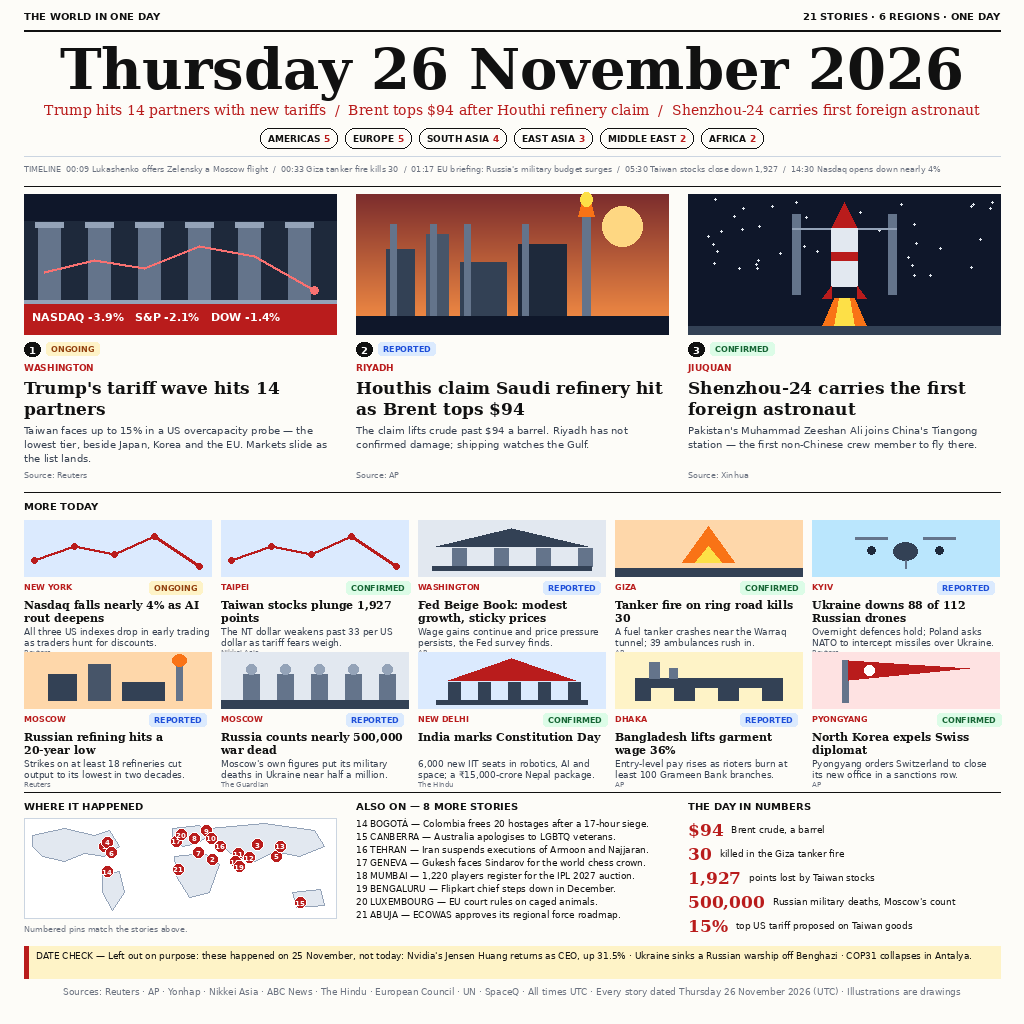
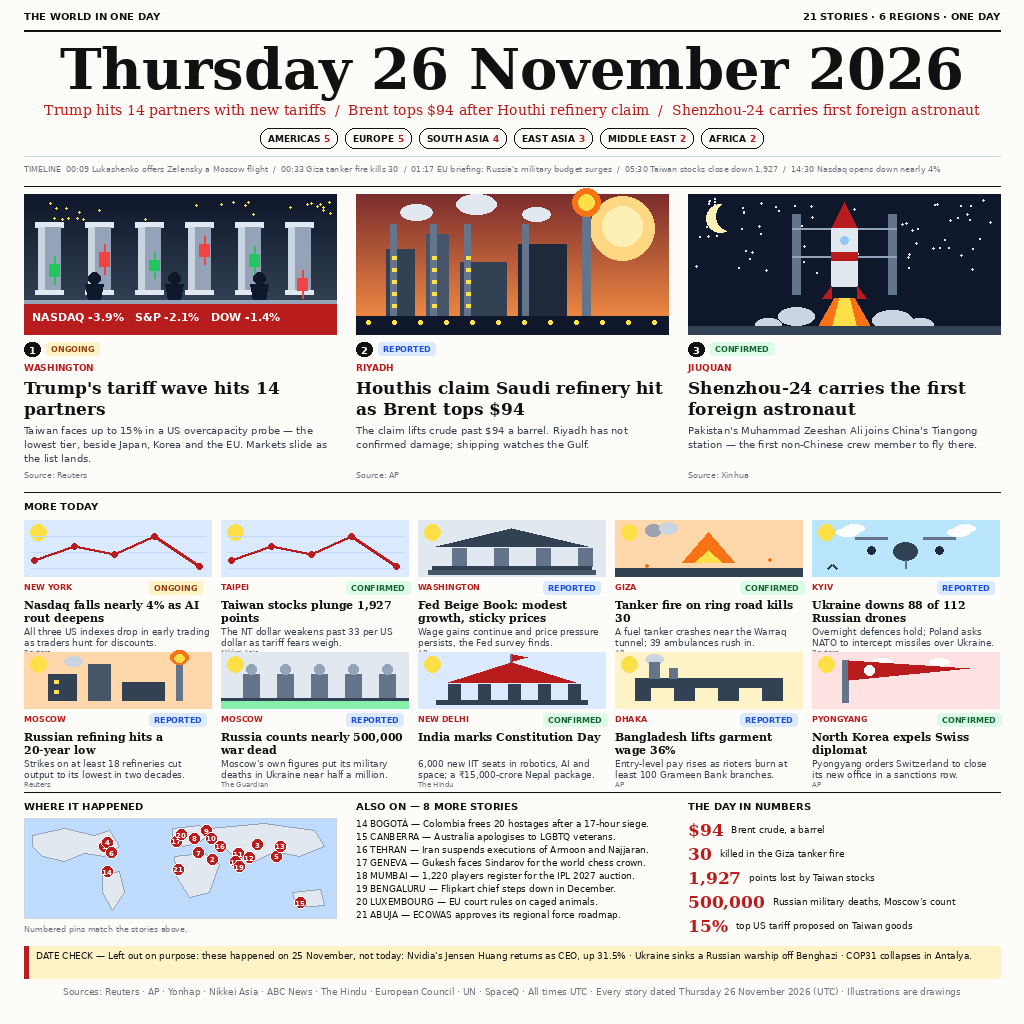
Make the illustrations more vivid: gradients, candles, smoke, people, skies

diff --git a/render.py b/render.py
@@ -298,6 +298,195 @@ def scene_mini(d, x, y, w, h, key):
                   fill=(185, 28, 28))
         d.ellipse([x + 52, y + 13, x + 62, y + 23], fill=(255, 255, 255))
 
+# ------------------------------------------------- vivid scene illustrations
+# Second pass: richer colour, gradients, smoke, people and skies. These
+# definitions replace the flatter ones above (same names, later wins).
+def scene_exchange(d, x, y, w, h):
+    import random
+    for i in range(h - 30):
+        t = i / max(1, h - 30)
+        r = int(15 + (51 - 15) * t)
+        g = int(23 + (65 - 23) * t)
+        b = int(42 + (85 - 42) * t)
+        d.line([(x, y + i), (x + w, y + i)], fill=(r, g, b))
+    rnd = random.Random(7)
+    for _ in range(26):
+        wx, wy = x + rnd.randint(6, w - 6), y + rnd.randint(6, 24)
+        d.ellipse([wx, wy, wx + 2, wy + 2], fill=(253, 224, 71))
+    for i in range(6):
+        cx = x + 14 + i * 50
+        d.rectangle([cx - 3, y + 28, cx + 25, y + 33], fill=(226, 232, 240))
+        d.rectangle([cx, y + 33, cx + 22, y + h - 44], fill=(148, 163, 184))
+        d.rectangle([cx, y + 33, cx + 6, y + h - 44], fill=(203, 213, 225))
+        d.rectangle([cx - 3, y + h - 44, cx + 25, y + h - 40], fill=(226, 232, 240))
+    sticks = [(30, 70, 12, 0), (80, 58, 14, 1), (130, 66, 10, 0),
+              (180, 50, 12, 1), (230, 60, 12, 0), (278, 84, 12, 1)]
+    for sx, top, bh, down in sticks:
+        col = (239, 68, 68) if down else (34, 197, 94)
+        d.line([(x + sx, y + top - 8), (x + sx, y + top + bh + 8)], fill=col, width=2)
+        d.rectangle([x + sx - 5, y + top, x + sx + 5, y + top + bh], fill=col)
+    for tx in (70, 150, 235):
+        d.ellipse([x + tx - 6, y + h - 62, x + tx + 6, y + h - 50], fill=(15, 23, 42))
+        d.polygon([(x + tx - 9, y + h - 50), (x + tx + 9, y + h - 50),
+                   (x + tx + 6, y + h - 34), (x + tx - 6, y + h - 34)],
+                  fill=(15, 23, 42))
+    d.rectangle([x, y + h - 34, x + w, y + h - 30], fill=(148, 163, 184))
+    d.rectangle([x, y + h - 30, x + w, y + h], fill=(185, 28, 28))
+    tape = "NASDAQ -3.9%   S&P -2.1%   DOW -1.4%"
+    d.text((x + 8, y + h - 24), tape, font=SANS_B(11), fill=(255, 255, 255))
+
+def scene_refinery(d, x, y, w, h):
+    for i in range(h):
+        t = i / h
+        r = int(124 + (253 - 124) * t)
+        g = int(45 + (148 - 45) * t)
+        b = int(45 + (70 - 45) * t)
+        d.line([(x, y + i), (x + w, y + i)], fill=(r, g, b))
+    d.ellipse([x + w - 78, y + 2, x + w - 14, y + 66], fill=(253, 215, 130))
+    d.ellipse([x + w - 66, y + 12, x + w - 26, y + 52], fill=(254, 240, 180))
+    for sx, sy, sr in ((60, 18, 16), (120, 10, 20), (180, 20, 14)):
+        d.ellipse([x + sx - sr, y + sy - sr // 2, x + sx + sr, y + sy + sr // 2],
+                  fill=(226, 232, 240))
+    d.rectangle([x + 30, y + 55, x + 58, y + h - 18], fill=(51, 65, 85))
+    d.rectangle([x + 70, y + 40, x + 92, y + h - 18], fill=(71, 85, 105))
+    d.rectangle([x + 104, y + 68, x + 150, y + h - 18], fill=(51, 65, 85))
+    d.rectangle([x + 162, y + 50, x + 210, y + h - 18], fill=(30, 41, 59))
+    for tx in (34, 74, 108, 166):
+        d.rectangle([x + tx, y + 30, x + tx + 6, y + h - 18], fill=(100, 116, 139))
+    for wy in range(y + 62, y + h - 24, 12):
+        d.rectangle([x + 36, wy, x + 40, wy + 3], fill=(253, 224, 71))
+        d.rectangle([x + 76, wy, x + 80, wy + 3], fill=(253, 224, 71))
+        d.rectangle([x + 110, wy, x + 114, wy + 3], fill=(253, 224, 71))
+    d.rectangle([x + 226, y + 22, x + 234, y + h - 18], fill=(100, 116, 139))
+    d.ellipse([x + 216, y - 6, x + 244, y + 22], fill=(249, 115, 22))
+    d.ellipse([x + 222, y + 0, x + 238, y + 16], fill=(253, 224, 71))
+    d.rectangle([x, y + h - 18, x + w, y + h], fill=(15, 23, 42))
+    for gx in range(10, w - 10, 26):
+        d.ellipse([x + gx, y + h - 14, x + gx + 4, y + h - 10], fill=(253, 224, 71))
+
+def scene_rocket(d, x, y, w, h):
+    import random
+    d.rectangle([x, y, x + w, y + h], fill=(15, 23, 42))
+    rnd = random.Random(26)
+    for _ in range(70):
+        sx, sy = x + rnd.randint(4, w - 4), y + rnd.randint(4, h - 60)
+        r = rnd.choice([1, 1, 2])
+        d.ellipse([sx, sy, sx + r, sy + r], fill=(226, 232, 240))
+    d.ellipse([x + 18, y + 10, x + 46, y + 38], fill=(254, 240, 180))
+    d.ellipse([x + 28, y + 8, x + 54, y + 36], fill=(15, 23, 42))
+    cx = x + w // 2
+    d.rectangle([cx - 52, y + 20, cx - 44, y + h - 40], fill=(100, 116, 139))
+    d.rectangle([cx + 44, y + 20, cx + 52, y + h - 40], fill=(100, 116, 139))
+    d.line([(cx - 52, y + 34), (cx - 14, y + 34)], fill=(148, 163, 184), width=2)
+    d.line([(cx + 14, y + 34), (cx + 52, y + 34)], fill=(148, 163, 184), width=2)
+    d.line([(cx - 52, y + 62), (cx - 14, y + 62)], fill=(148, 163, 184), width=2)
+    d.line([(cx + 14, y + 62), (cx + 52, y + 62)], fill=(148, 163, 184), width=2)
+    d.polygon([(cx, y + 8), (cx - 13, y + 34), (cx + 13, y + 34)], fill=(185, 28, 28))
+    d.rectangle([cx - 13, y + 34, cx + 13, y + 92], fill=(226, 232, 240))
+    d.rectangle([cx - 13, y + 58, cx + 13, y + 66], fill=(185, 28, 28))
+    d.ellipse([cx - 4, y + 42, cx + 4, y + 50], fill=(147, 197, 253))
+    d.polygon([(cx - 13, y + 92), (cx - 22, y + 104), (cx - 13, y + 104)], fill=(185, 28, 28))
+    d.polygon([(cx + 13, y + 92), (cx + 22, y + 104), (cx + 13, y + 104)], fill=(185, 28, 28))
+    d.polygon([(cx - 10, y + 104), (cx + 10, y + 104), (cx + 26, y + h - 8),
+               (cx - 26, y + h - 8)], fill=(249, 115, 22))
+    d.polygon([(cx - 5, y + 104), (cx + 5, y + 104), (cx + 12, y + h - 8),
+               (cx - 12, y + h - 8)], fill=(253, 224, 71))
+    for scx, scy, sr in ((cx - 48, h - 18, 18), (cx + 48, h - 14, 20),
+                         (cx - 76, h - 10, 13), (cx + 76, h - 10, 13)):
+        d.ellipse([scx - sr, y + scy - sr // 2, scx + sr, y + scy + sr // 2],
+                  fill=(203, 213, 225))
+    d.rectangle([x, y + h - 8, x + w, y + h], fill=(51, 65, 85))
+
+def scene_mini(d, x, y, w, h, key):
+    """Small card illustration, one livelier scene per story key."""
+    sky = {"chart": (219, 234, 254), "bank": (226, 232, 240),
+           "fire": (254, 215, 170), "drone": (186, 230, 253),
+           "refinery2": (254, 215, 170), "memorial": (226, 232, 240),
+           "parliament": (219, 234, 254), "factory": (254, 243, 199),
+           "flag": (254, 226, 226)}.get(key, (226, 232, 240))
+    d.rectangle([x, y, x + w, y + h], fill=sky)
+    d.ellipse([x + 6, y + 4, x + 22, y + 20], fill=(253, 224, 71))
+    if key == "chart":
+        for gy in (y + 16, y + 32, y + 48):
+            d.line([(x + 6, gy), (x + w - 6, gy)], fill=(191, 219, 254), width=1)
+        pts = [(x + 10, y + h - 16), (x + 50, y + 26), (x + 90, y + 34),
+               (x + 130, y + 16), (x + 175, y + h - 10)]
+        d.line(pts, fill=(185, 28, 28), width=3)
+        for px, py in pts:
+            d.ellipse([px - 3, py - 3, px + 3, py + 3], fill=(185, 28, 28))
+    elif key == "bank":
+        d.polygon([(x + w // 2, y + 8), (x + 18, y + 26), (x + w - 18, y + 26)],
+                  fill=(51, 65, 85))
+        for i in range(4):
+            cx = x + 34 + i * 42
+            d.rectangle([cx, y + 28, cx + 14, y + h - 10], fill=(100, 116, 139))
+        d.rectangle([x + 14, y + h - 10, x + w - 14, y + h - 6], fill=(51, 65, 85))
+        d.rectangle([x + 10, y + h - 6, x + w - 10, y + h - 2], fill=(71, 85, 105))
+    elif key == "fire":
+        d.ellipse([x + 30, y + 4, x + 46, y + 16], fill=(156, 163, 175))
+        d.ellipse([x + 44, y + 2, x + 62, y + 14], fill=(203, 213, 225))
+        d.polygon([(x + w // 2, y + 12), (x + w // 2 - 26, y + h - 14),
+                   (x + w // 2 + 26, y + h - 14)], fill=(249, 115, 22))
+        d.polygon([(x + w // 2, y + 30), (x + w // 2 - 13, y + h - 14),
+                   (x + w // 2 + 13, y + h - 14)], fill=(253, 224, 71))
+        for ex, ey in ((x + 30, y + 44), (x + w - 34, y + 38), (x + 52, y + 52)):
+            d.ellipse([ex, ey, ex + 3, ey + 3], fill=(249, 115, 22))
+        d.rectangle([x, y + h - 8, x + w, y + h], fill=(51, 65, 85))
+    elif key == "drone":
+        for cx0 in (x + 24, x + w - 52):
+            d.ellipse([cx0, y + 8, cx0 + 22, y + 16], fill=(255, 255, 255))
+            d.ellipse([cx0 + 8, y + 4, cx0 + 28, y + 12], fill=(255, 255, 255))
+        d.ellipse([x + w // 2 - 12, y + 22, x + w // 2 + 12, y + 40], fill=(51, 65, 85))
+        for dx in (-34, 34):
+            d.line([(x + w // 2 + dx - 16, y + 18), (x + w // 2 + dx + 16, y + 18)],
+                   fill=(100, 116, 139), width=3)
+            d.ellipse([x + w // 2 + dx - 4, y + 26, x + w // 2 + dx + 4, y + 34],
+                      fill=(30, 41, 59))
+        d.line([(x + w // 2, y + 40), (x + w // 2, y + h - 8)], fill=(100, 116, 139), width=2)
+        d.line([(x + 16, y + 48), (x + 20, y + 44), (x + 24, y + 48)], fill=(51, 65, 85), width=2)
+    elif key == "refinery2":
+        d.ellipse([x + 40, y + 4, x + 58, y + 14], fill=(203, 213, 225))
+        d.rectangle([x + 24, y + 22, x + 52, y + h - 8], fill=(51, 65, 85))
+        d.rectangle([x + 64, y + 12, x + 86, y + h - 8], fill=(71, 85, 105))
+        d.rectangle([x + 98, y + 30, x + 140, y + h - 8], fill=(51, 65, 85))
+        d.rectangle([x + 152, y + 8, x + 158, y + h - 8], fill=(100, 116, 139))
+        d.ellipse([x + 146, y - 2, x + 164, y + 12], fill=(249, 115, 22))
+        d.ellipse([x + 150, y + 2, x + 160, y + 10], fill=(253, 224, 71))
+        for wy in range(y + 28, y + h - 12, 10):
+            d.rectangle([x + 30, wy, x + 34, wy + 3], fill=(253, 224, 71))
+    elif key == "memorial":
+        d.rectangle([x, y + h - 10, x + w, y + h], fill=(134, 239, 172))
+        for i in range(5):
+            cx = x + 22 + i * 34
+            d.rectangle([cx, y + h - 34, cx + 16, y + h - 10], fill=(100, 116, 139))
+            d.ellipse([cx + 3, y + h - 44, cx + 13, y + h - 34], fill=(148, 163, 184))
+        d.rectangle([x, y + h - 10, x + w, y + h - 8], fill=(51, 65, 85))
+    elif key == "parliament":
+        d.rectangle([x + w // 2 - 1, y + 2, x + w // 2 + 1, y + 10], fill=(100, 116, 139))
+        d.polygon([(x + w // 2 + 1, y + 2), (x + w // 2 + 16, y + 5),
+                   (x + w // 2 + 1, y + 9)], fill=(185, 28, 28))
+        d.polygon([(x + w // 2, y + 10), (x + 30, y + 30), (x + w - 30, y + 30)],
+                  fill=(185, 28, 28))
+        for i in range(5):
+            cx = x + 30 + i * 30
+            d.rectangle([cx, y + 32, cx + 12, y + h - 8], fill=(51, 65, 85))
+        d.rectangle([x + 18, y + h - 8, x + w - 18, y + h - 4], fill=(51, 65, 85))
+    elif key == "factory":
+        d.ellipse([x + 30, y + 2, x + 48, y + 12], fill=(203, 213, 225))
+        d.rectangle([x + 20, y + 26, x + w - 20, y + h - 8], fill=(51, 65, 85))
+        d.rectangle([x + 34, y + 10, x + 44, y + 26], fill=(100, 116, 139))
+        d.rectangle([x + 54, y + 16, x + 62, y + 26], fill=(100, 116, 139))
+        for i in range(3):
+            d.rectangle([x + 36 + i * 44, y + 36, x + 58 + i * 44, y + 52],
+                        fill=(254, 243, 199))
+    elif key == "flag":
+        for cx0 in (x + 60, x + w - 70):
+            d.ellipse([cx0, y + 6, cx0 + 20, y + 13], fill=(255, 255, 255))
+        d.rectangle([x + 30, y + 8, x + 36, y + h - 6], fill=(100, 116, 139))
+        d.polygon([(x + 36, y + 8), (x + w - 30, y + 16), (x + 36, y + 28)],
+                  fill=(185, 28, 28))
+        d.ellipse([x + 52, y + 13, x + 62, y + 23], fill=(255, 255, 255))
+
 LEAD_SCENES = {"exchange": scene_exchange, "refinery": scene_refinery,
                "rocket": scene_rocket}
 
@@ -312,7 +501,7 @@ def fit_text(d, text, fnt_fn, size, max_w, start=15):
     return fnt_fn(8)
 
 def draw_map(d, x, y, w, h):
-    d.rectangle([x, y, x + w, y + h], fill=(255, 255, 255), outline=(203, 213, 225))
+    d.rectangle([x, y, x + w, y + h], fill=(191, 219, 254), outline=(203, 213, 225))
     land = (226, 232, 240)
     polys = {
         "na": [(8, 14), (40, 8), (70, 14), (85, 10), (95, 22), (80, 30), (60, 28), (40, 34), (18, 30), (8, 22)],
